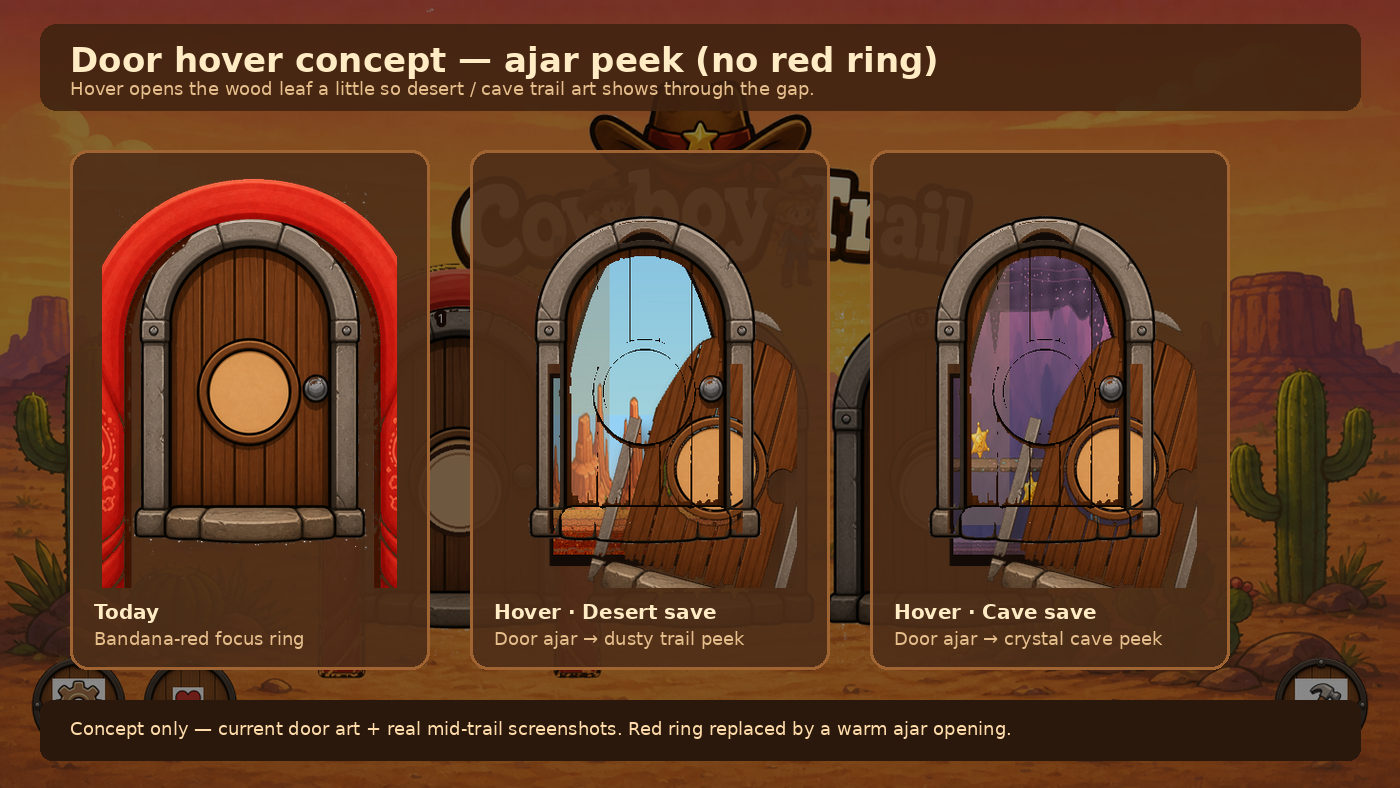
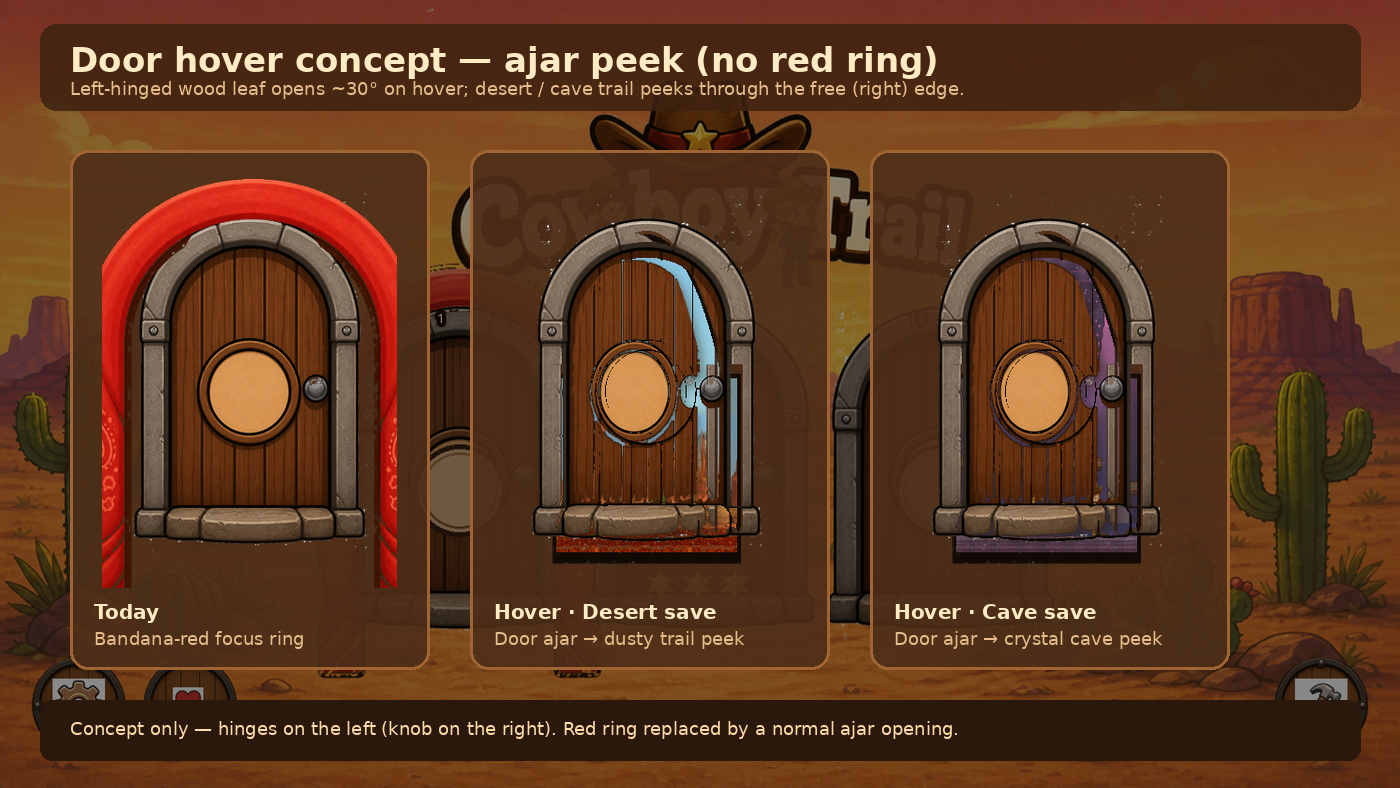
Fix ajar door concept to swing from the left hinge.
Use a cos-based ~30° open so the free (knob) edge reveals the peek on the right at a normal door angle.

diff --git a/tools/build_door_hover_concept.py b/tools/build_door_hover_concept.py
@@ -3,6 +3,7 @@
 
 from __future__ import annotations
 
+import math
 from pathlib import Path
 
 from PIL import Image, ImageChops, ImageDraw, ImageEnhance, ImageFilter, ImageFont
@@ -36,8 +37,9 @@ def _split_door(door: Image.Image) -> tuple[Image.Image, Image.Image]:
             r, g, b, a = pix[x, y]
             if a < 20:
                 continue
-            # Flat porthole fill — not part of the swinging leaf art.
+            # Pale porthole glass rides with the leaf.
             if r > 200 and g > 170 and b > 130 and abs(r - g) < 50:
+                wp[x, y] = 255
                 continue
             if r > 70 and r > g + 15 and r > b + 25 and g > 35 and b < 120:
                 wp[x, y] = 255
@@ -59,8 +61,6 @@ def _split_door(door: Image.Image) -> tuple[Image.Image, Image.Image]:
                 continue
             if wl[x, y] > 80:
                 lp[x, y] = (r, g, b, a)
-                continue
-            if r > 200 and g > 170 and b > 130 and abs(r - g) < 50:
                 continue
             sfp[x, y] = (r, g, b, a)
     return stone_frame, leaf.filter(ImageFilter.GaussianBlur(0.35))
@@ -93,11 +93,14 @@ def _make_ajar(
     leaf: Image.Image,
     peek: Image.Image,
     *,
-    open_px: int = 48,
+    open_deg: float = 30.0,
 ) -> Image.Image:
+    """Left-hinged wood leaf, ajar at a normal open angle; peek on the free (right) side."""
     w, h = stone_frame.size
-    canvas = Image.new("RGBA", (w + 30, h + 10), (0, 0, 0, 0))
+    canvas = Image.new("RGBA", (w + 40, h + 16), (0, 0, 0, 0))
+    origin = (16, 8)
 
+    # Dark room behind the arch.
     interior = Image.new("RGBA", (w, h), (0, 0, 0, 0))
     idr = ImageDraw.Draw(interior)
     idr.pieslice((40, 52, w - 40, h * 2 - 90), 180, 360, fill=(18, 10, 6, 255))
@@ -113,36 +116,105 @@ def _make_ajar(
     ox = (w - peek.width) // 2
     oy = 70
     peek_layer.paste(peek_rgba, (ox, oy))
-    alpha = ImageChops.multiply(peek_layer.split()[-1], arch)
-    peek_layer.putalpha(alpha)
+    peek_layer.putalpha(ImageChops.multiply(peek_layer.split()[-1], arch))
 
-    # Warm light in the crack (not bandana red).
+    # True door swing around the LEFT hinge (knob = free right edge).
+    # Frontal projected width ≈ W·cos(θ); free edge recedes into the room.
+    hinge_x = 38.0
+    top_y, bot_y = 48.0, 375.0
+    right_x = 242.0
+    theta = math.radians(open_deg)
+    cos_t = math.cos(theta)
+    sin_t = math.sin(theta)
+    leaf_w = right_x - hinge_x
+    new_right = hinge_x + leaf_w * cos_t
+    # Free edge is farther away → mild vertical foreshortening.
+    shrink = 1.0 - 0.07 * sin_t
+    mid = (top_y + bot_y) * 0.5
+    half = (bot_y - top_y) * 0.5
+    new_top = mid - half * shrink
+    new_bot = mid + half * shrink
+
+    # Warm light in the revealed gap (right of the swung free edge).
+    gap_left = int(new_right) + 2
     shade = Image.new("RGBA", (w, h), (0, 0, 0, 0))
     sd = ImageDraw.Draw(shade)
-    sd.rectangle((44, 56, 44 + open_px + 10, h - 62), fill=(255, 214, 150, 48))
-    sd.rectangle((44, 56, 52, h - 62), fill=(0, 0, 0, 70))
+    sd.rectangle((gap_left, 56, w - 44, h - 62), fill=(255, 214, 150, 48))
+    sd.rectangle((w - 52, 56, w - 44, h - 62), fill=(0, 0, 0, 55))
 
-    canvas.paste(interior, (10, 5), interior)
-    canvas.paste(peek_layer, (10, 5), peek_layer)
-    canvas.paste(shade, (10, 5), shade)
+    canvas.paste(interior, origin, interior)
+    canvas.paste(peek_layer, origin, peek_layer)
+    canvas.paste(shade, origin, shade)
 
-    leaf_pad = Image.new("RGBA", (w + 80, h + 40), (0, 0, 0, 0))
-    leaf_pad.paste(leaf, (40, 20), leaf)
-    pivoted = leaf_pad.rotate(
-        -15,
+    # Closed leaf corners → ajar corners (left posts fixed).
+    closed = [
+        (hinge_x, top_y),
+        (right_x, top_y),
+        (right_x, bot_y),
+        (hinge_x, bot_y),
+    ]
+    ajar = [
+        (hinge_x, top_y),
+        (new_right, new_top),
+        (new_right, new_bot),
+        (hinge_x, bot_y),
+    ]
+    matrix = _perspective_coeffs(ajar, closed)
+    swung = leaf.transform(
+        (w, h),
+        Image.Transform.PERSPECTIVE,
+        matrix,
         resample=Image.Resampling.BICUBIC,
-        expand=True,
-        center=(40 + 38, 20 + h // 2),
     )
-    shadow_a = pivoted.split()[-1].point(lambda a: int(a * 0.32))
-    shadow_a = shadow_a.filter(ImageFilter.GaussianBlur(7))
-    shadow = Image.new("RGBA", pivoted.size, (0, 0, 0, 0))
+
+    # Thin dark strip on the free edge = door thickness cue.
+    edge = Image.new("RGBA", (w, h), (0, 0, 0, 0))
+    ed = ImageDraw.Draw(edge)
+    thickness = max(3, int(8 * sin_t))
+    ed.line(
+        [(new_right, new_top), (new_right, new_bot)],
+        fill=(42, 22, 12, 200),
+        width=thickness,
+    )
+
+    shadow_a = swung.split()[-1].point(lambda a: int(a * 0.28))
+    shadow_a = shadow_a.filter(ImageFilter.GaussianBlur(5))
+    shadow = Image.new("RGBA", (w, h), (0, 0, 0, 0))
     shadow.putalpha(shadow_a)
-    canvas.paste(shadow, (4, 12), shadow)
-    canvas.paste(pivoted, (-2, 0), pivoted)
-    canvas.paste(stone_frame, (10, 5), stone_frame)
+    canvas.paste(shadow, (origin[0] + 4, origin[1] + 6), shadow)
+    canvas.paste(swung, origin, swung)
+    canvas.paste(edge, origin, edge)
+    canvas.paste(stone_frame, origin, stone_frame)
     return canvas
 
+
+def _perspective_coeffs(
+    output_xy: list[tuple[float, float]],
+    input_uv: list[tuple[float, float]],
+) -> list[float]:
+    """PIL PERSPECTIVE coeffs mapping output (x,y) -> input (u,v). Pure Python."""
+    # Rows: a0..a7 for each of 4 point pairs (2 eqs each).
+    a: list[list[float]] = []
+    for (x, y), (u, v) in zip(output_xy, input_uv):
+        a.append([x, y, 1.0, 0.0, 0.0, 0.0, -u * x, -u * y, u])
+        a.append([0.0, 0.0, 0.0, x, y, 1.0, -v * x, -v * y, v])
+    # Gaussian elimination with partial pivoting.
+    n = 8
+    for col in range(n):
+        pivot = max(range(col, n), key=lambda r: abs(a[r][col]))
+        if abs(a[pivot][col]) < 1e-12:
+            raise ValueError("singular perspective system")
+        a[col], a[pivot] = a[pivot], a[col]
+        div = a[col][col]
+        for j in range(col, n + 1):
+            a[col][j] /= div
+        for r in range(n):
+            if r == col:
+                continue
+            factor = a[r][col]
+            for j in range(col, n + 1):
+                a[r][j] -= factor * a[col][j]
+    return [a[i][n] for i in range(n)]
 
 def _make_closed_with_ring(door: Image.Image, ring: Image.Image) -> Image.Image:
     w, h = door.size
@@ -190,7 +262,7 @@ def main() -> int:
     )
     draw.text(
         (70, 78),
-        "Hover opens the wood leaf a little so desert / cave trail art shows through the gap.",
+        "Left-hinged wood leaf opens ~30° on hover; desert / cave trail peeks through the free (right) edge.",
         fill=(230, 190, 140),
         font=font_sub,
     )
@@ -228,7 +300,7 @@ def main() -> int:
     draw.rounded_rectangle((40, 700, 1360, 760), radius=12, fill=(42, 24, 12, 210))
     draw.text(
         (70, 718),
-        "Concept only — current door art + real mid-trail screenshots. Red ring replaced by a warm ajar opening.",
+        "Concept only — hinges on the left (knob on the right). Red ring replaced by a normal ajar opening.",
         fill=(255, 220, 170),
         font=font_sub,
     )
